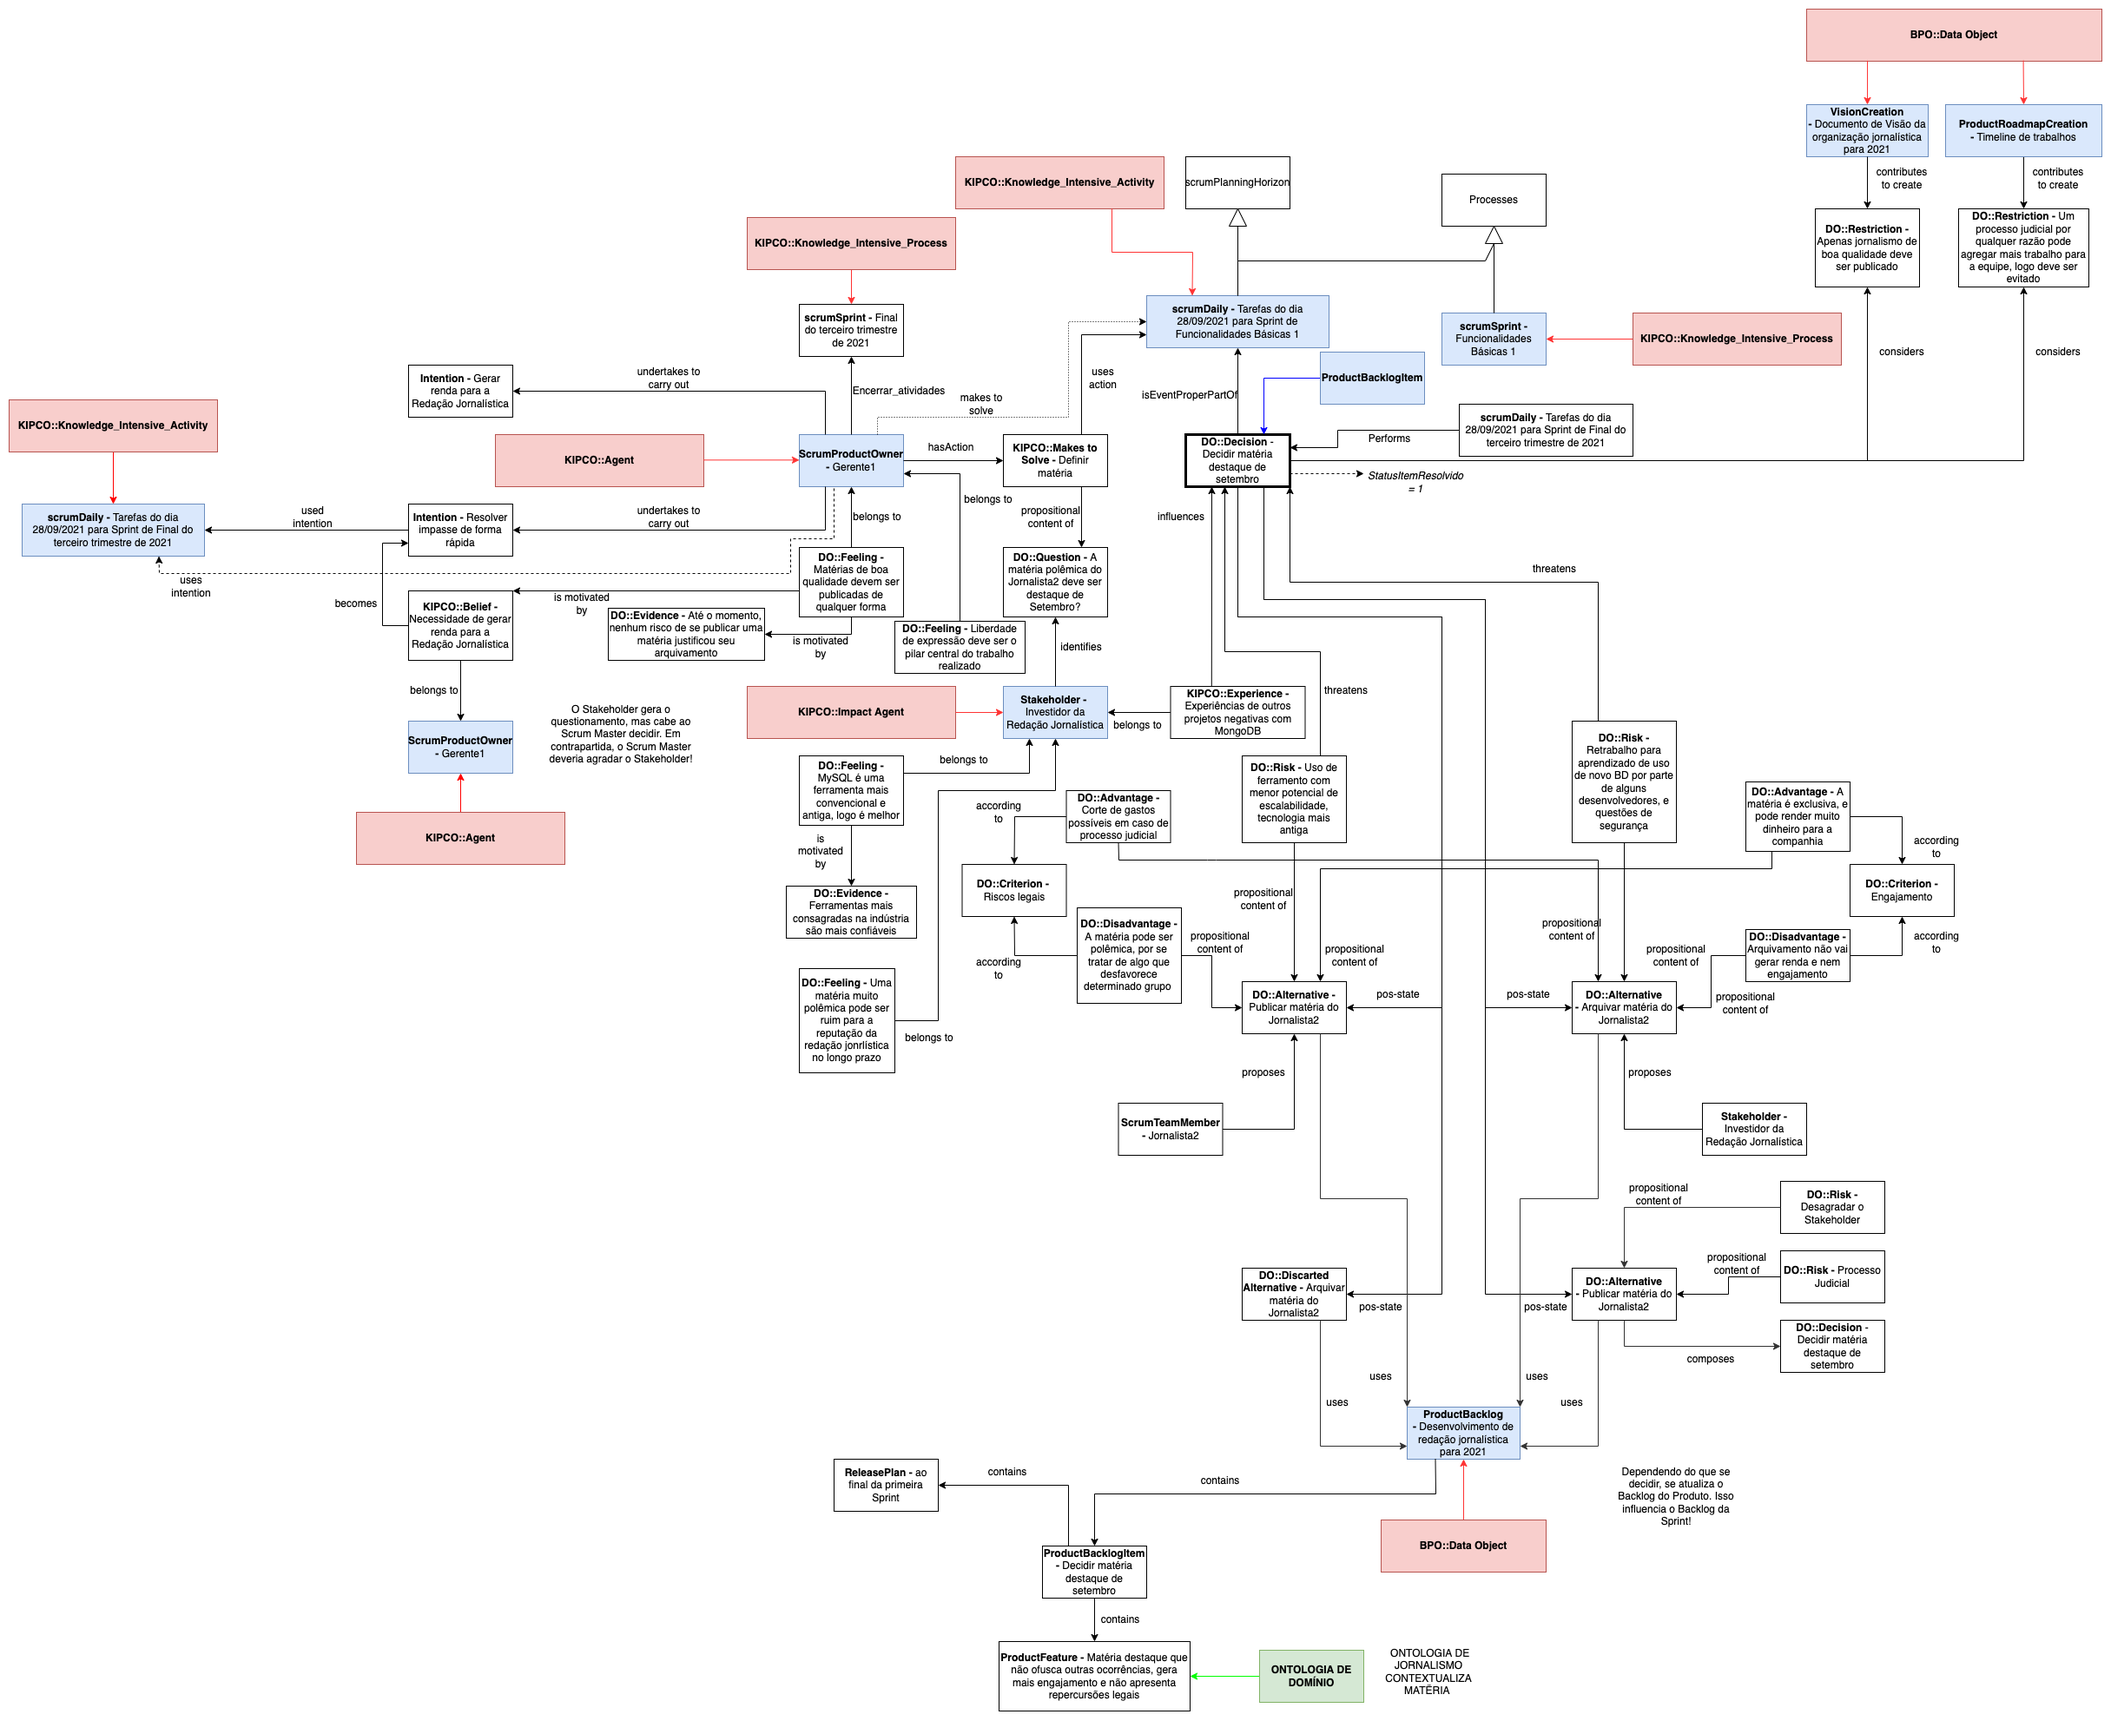
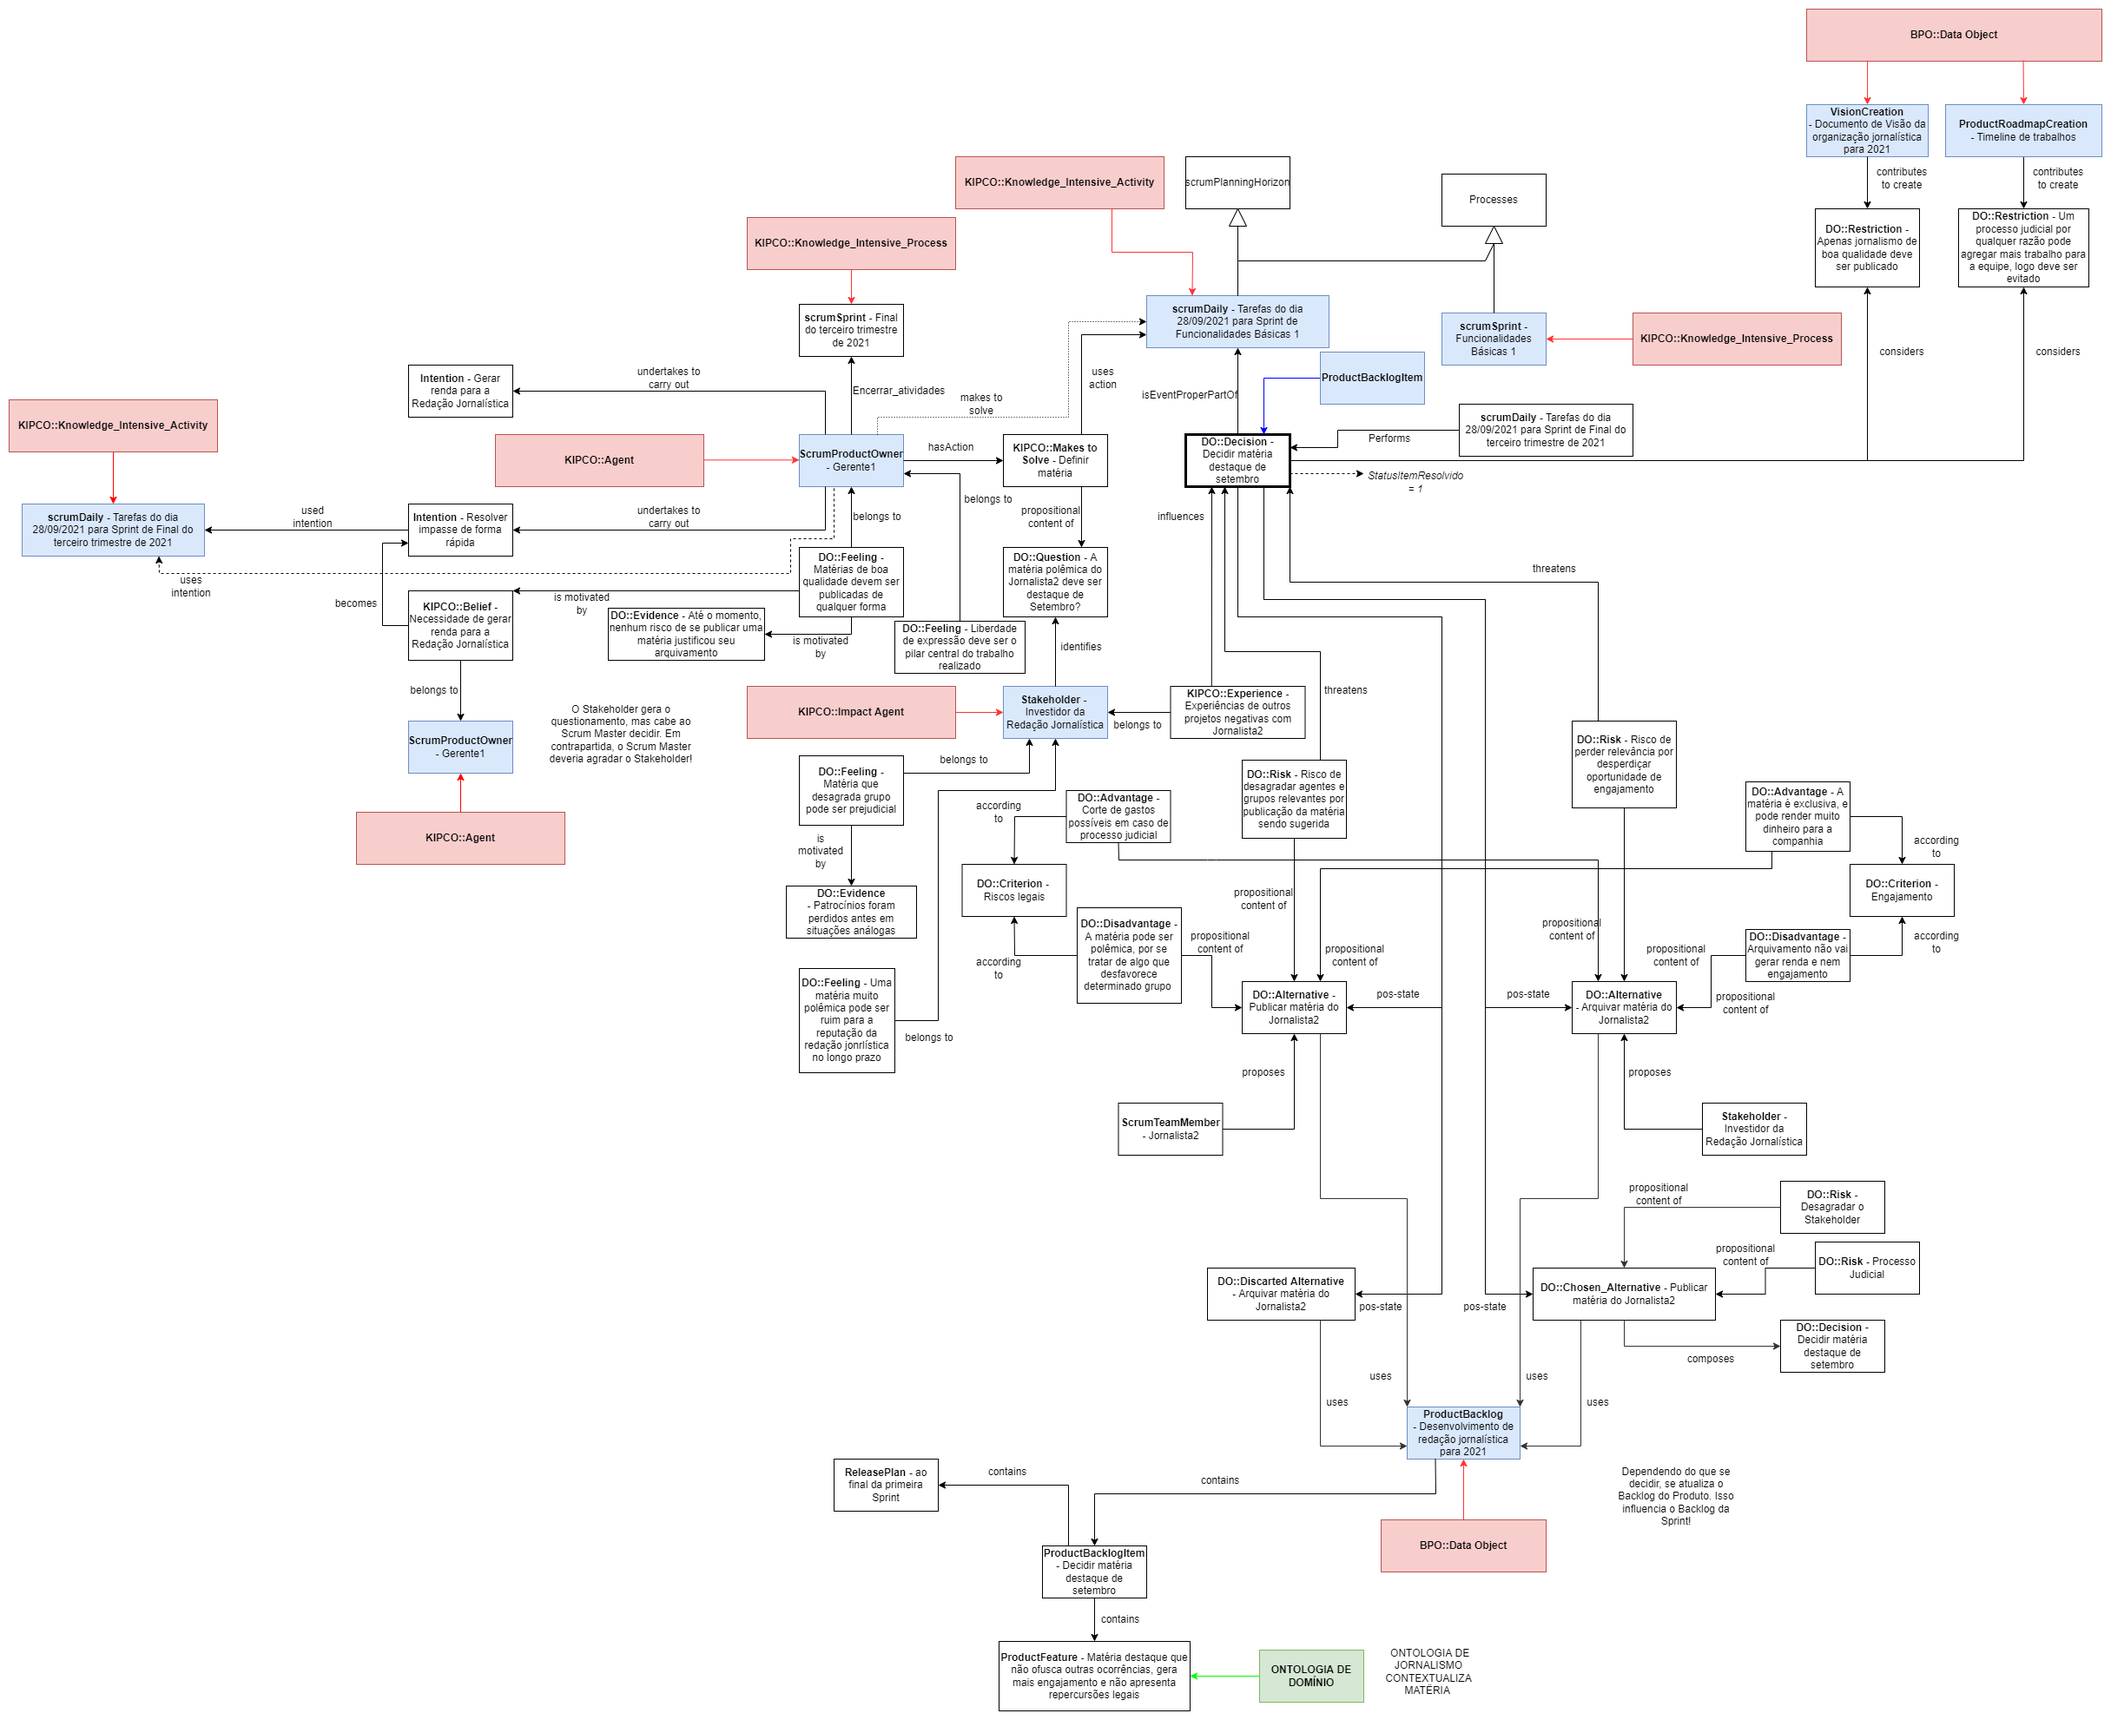
Add files via upload

diff --git a/Midia Externa/Scripts de Inicialização do BD - Jornalismo/main.py b/Midia Externa/Scripts de Inicialização do BD - Jornalismo/main.py
@@ -421,11 +421,11 @@ def main():
         kiposcrum["DO__Restriction"]("um_processo_judicial_deve_ser_evitado_por_ocupar_tempo" + id_unico)
         kiposcrum["um_processo_judicial_deve_ser_evitado_por_ocupar_tempo" + id_unico].Nome.append("um_processo_judicial_deve_ser_evitado_por_ocupar_tempo")
 
-        kiposcrum["DO__Feeling"]("" + id_unico)
-        kiposcrum["" + id_unico].Nome.append("")
+        kiposcrum["DO__Feeling"]("materia_que_desagrada_grupo_pode_ser_prejudicial" + id_unico)
+        kiposcrum["materia_que_desagrada_grupo_pode_ser_prejudicial" + id_unico].Nome.append("materia_que_desagrada_grupo_pode_ser_prejudicial")
 
-        kiposcrum["DO__Evidence"]("" + id_unico)
-        kiposcrum["" + id_unico].Nome.append("")
+        kiposcrum["DO__Evidence"]("patrocinios_foram_perdidos_antes_por_conta_de_atritos_semelhantes" + id_unico)
+        kiposcrum["patrocinios_foram_perdidos_antes_por_conta_de_atritos_semelhantes" + id_unico].Nome.append("patrocinios_foram_perdidos_antes_por_conta_de_atritos_semelhantes")
 
         kiposcrum["DO__Feeling"]("uma_materia_muito_polemica_afeta_reputacao_do_jornal_no_longo_prazo" + id_unico)
         kiposcrum["uma_materia_muito_polemica_afeta_reputacao_do_jornal_no_longo_prazo" + id_unico].Nome.append("uma_materia_muito_polemica_afeta_reputacao_do_jornal_no_longo_prazo")
@@ -435,23 +435,79 @@ def main():
 
         # sobre a decisão
 
+        kiposcrum["DO__Risk"]("risco_de_perder_relevancia_por_desperdicar_oportunidade_de_engajamento" + id_unico)
+        kiposcrum["risco_de_perder_relevancia_por_desperdicar_oportunidade_de_engajamento" + id_unico].Nome.append("risco_de_perder_relevancia_por_desperdicar_oportunidade_de_engajamento")
+
+        kiposcrum["DO__Risk"]("risco_de_desagradar_grupos_relevantes_por_assunto_da_noticia" + id_unico)
+        kiposcrum["risco_de_desagradar_grupos_relevantes_por_assunto_da_noticia" + id_unico].Nome.append("risco_de_desagradar_grupos_relevantes_por_assunto_da_noticia")
+
+        kiposcrum["DO__Criterion"]("riscos_legais" + id_unico)
+        kiposcrum["riscos_legais" + id_unico].Nome.append("riscos_legais")
+
+        kiposcrum["DO__Advantage"]("corte_de_gastos_em_caso_de_processo" + id_unico)
+        kiposcrum["corte_de_gastos_em_caso_de_processo" + id_unico].Nome.append("corte_de_gastos_em_caso_de_processo")
+
+        kiposcrum["DO__Disadvantage"]("materia_polemica_por_se_tratar_de_algo_que_desfavorece_um_grupo" + id_unico)
+        kiposcrum["materia_polemica_por_se_tratar_de_algo_que_desfavorece_um_grupo" + id_unico].Nome.append("materia_polemica_por_se_tratar_de_algo_que_desfavorece_um_grupo")
+
+        kiposcrum["DO__Alternative"]("publicar_materia_jornalista_2" + id_unico)
+        kiposcrum["publicar_materia_jornalista_2" + id_unico].Nome.append("publicar_materia_jornalista_2")
+
+        # -------------------------------
+
+        kiposcrum["DO__Criterion"]("engajamento" + id_unico)
+        kiposcrum["engajamento" + id_unico].Nome.append("engajamento")
+
+        kiposcrum["DO__Advantage"]("materia_exclusiva_rende_muito_dinheiro" + id_unico)
+        kiposcrum["materia_exclusiva_rende_muito_dinheiro" + id_unico].Nome.append("materia_exclusiva_rende_muito_dinheiro")
+
+        kiposcrum["DO__Disadvantage"]("arquivamento_nao_da_rendimento" + id_unico)
+        kiposcrum["arquivamento_nao_da_rendimento" + id_unico].Nome.append("arquivamento_nao_da_rendimento")
+
+        kiposcrum["DO__Alternative"]("arquivar_materia_jornalista2" + id_unico)
+        kiposcrum["arquivar_materia_jornalista2" + id_unico].Nome.append("arquivar_materia_jornalista2")
+
+        kiposcrum["DO__Risk"]("desagradar_stakeholder" + id_unico)
+        kiposcrum["desagradar_stakeholder" + id_unico].Nome.append("desagradar_stakeholder")
+
+        kiposcrum["DO__Risk"]("processo_judicial" + id_unico)
+        kiposcrum["processo_judicial" + id_unico].Nome.append("processo_judicial")
+
+        # -------------------------------
+
+        kiposcrum["DO__Discarded_Alternative"]("arquivar_materia_jornalista2" + id_unico)
+        kiposcrum["arquivar_materia_jornalista2" + id_unico + "1"].Nome.append("arquivar_materia_jornalista2")
+
+        kiposcrum["DO__Chosen_Alternative"]("publicar_materia_jornalista_2" + id_unico)
+        kiposcrum["publicar_materia_jornalista_2" + id_unico + "1"].Nome.append("publicar_materia_jornalista_2")
+
+        # -------------------------------
+        # -------------------------------
+        # tcc_casodeestudo_KIPO_decidirmateria.png
+        # relacionamentos
+
+        
+
+
+
+
 
         # -------------------------------
 
 
 
 
-        # -------------------------------
-
-
-
-
 
         # -------------------------------
 
 
 
+
+
         # -------------------------------
+
+
+
 
 
         # -------------------------------
